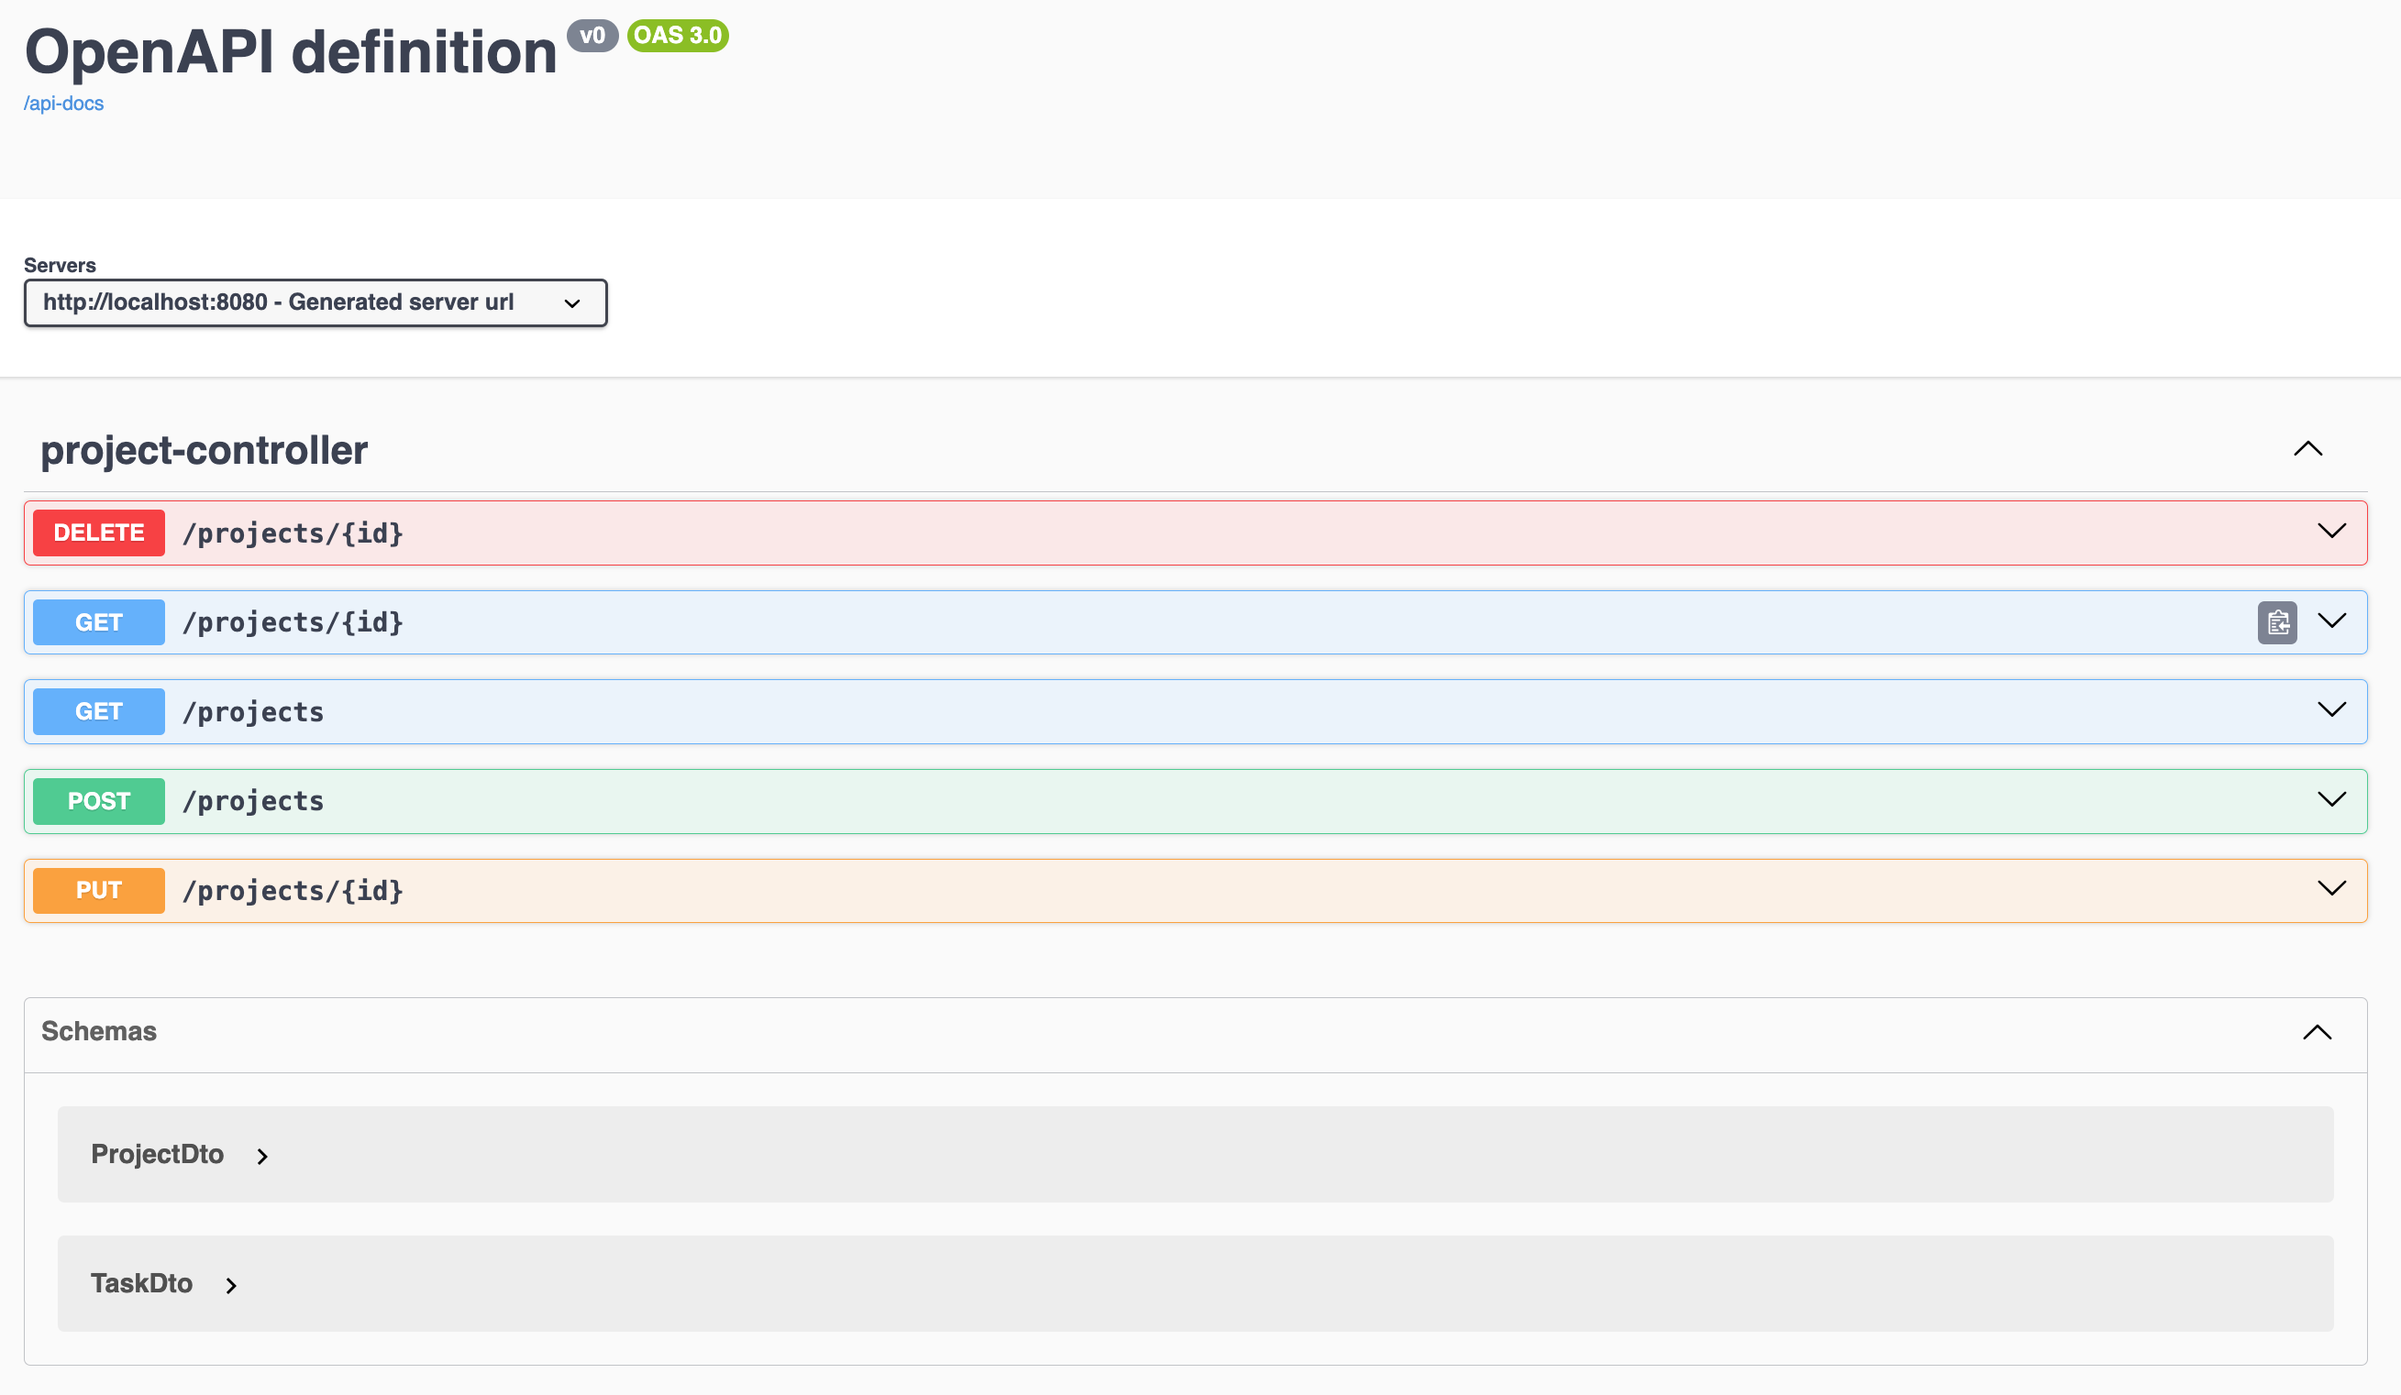
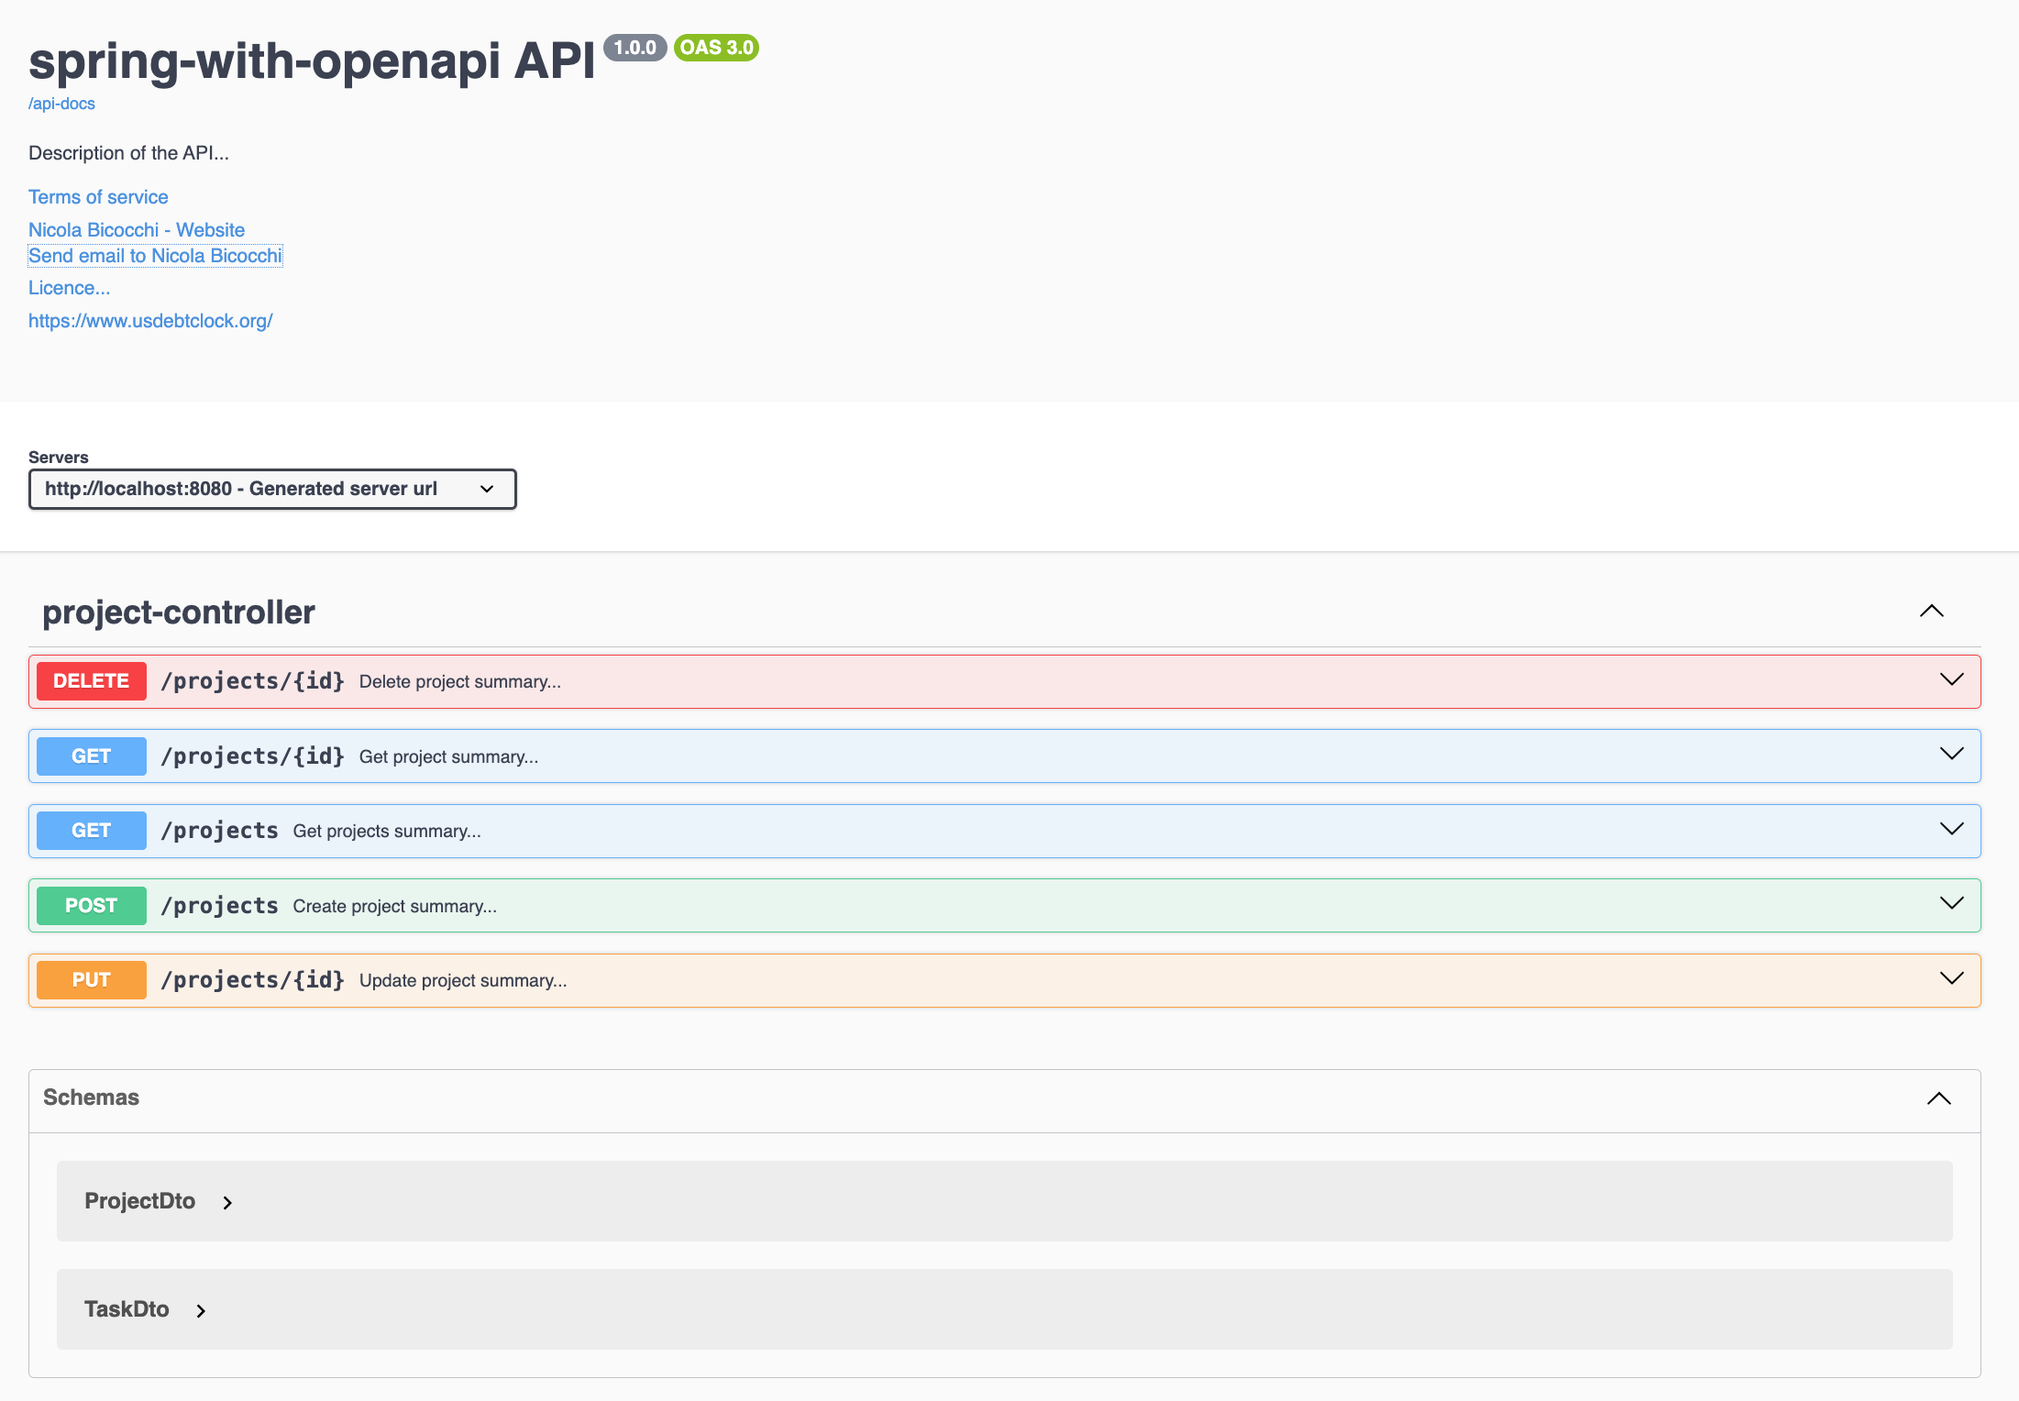
Update

diff --git a/code/learn-spring-m6/spring-with-openapi-end/src/main/java/com/baeldung/ls/web/controller/ProjectController.java b/code/learn-spring-m6/spring-with-openapi-end/src/main/java/com/baeldung/ls/web/controller/ProjectController.java
@@ -4,6 +4,9 @@ import com.baeldung.ls.mapper.ProjectMapper;
 import com.baeldung.ls.persistence.model.Project;
 import com.baeldung.ls.service.IProjectService;
 import com.baeldung.ls.web.dto.ProjectDto;
+import io.swagger.v3.oas.annotations.Operation;
+import io.swagger.v3.oas.annotations.responses.ApiResponse;
+import io.swagger.v3.oas.annotations.responses.ApiResponses;
 import org.springframework.http.HttpStatus;
 import org.springframework.web.bind.annotation.*;
 import org.springframework.web.server.ResponseStatusException;
@@ -24,12 +27,20 @@ public class ProjectController {
         this.mapper = mapper;
     }
 
+    @Operation(
+            summary = "${api.project.get-project.summary}",
+            description = "${api.project.get-project.description}"
+    )
     @GetMapping(value = "/{id}")
     public ProjectDto findOne(@PathVariable Long id) {
         Project entity = projectService.findById(id).orElseThrow(() -> new ResponseStatusException(HttpStatus.NOT_FOUND));
         return mapper.projectToProjectDTO(entity);
     }
 
+    @Operation(
+            summary = "${api.project.create-project.summary}",
+            description = "${api.project.create-project.description}"
+    )
     @PostMapping
     @ResponseStatus(HttpStatus.CREATED)
     public ProjectDto create(@RequestBody ProjectDto newProject) {
@@ -42,6 +53,10 @@ public class ProjectController {
         return mapper.projectToProjectDTO(projectService.save(entity));
     }
 
+    @Operation(
+            summary = "${api.project.get-projects.summary}",
+            description = "${api.project.get-projects.description}"
+    )
     @GetMapping
     public Collection<ProjectDto> findAll() {
         Iterable<Project> allProjects = this.projectService.findAll();
@@ -50,12 +65,20 @@ public class ProjectController {
         return projectDtos;
     }
 
+    @Operation(
+            summary = "${api.project.update-project.summary}",
+            description = "${api.project.update-project.description}"
+    )
     @PutMapping("/{id}")
     public ProjectDto updateProject(@PathVariable("id") Long id, @RequestBody ProjectDto updatedProject) {
         Project entity = mapper.projectDTOToProject(updatedProject);
         return mapper.projectToProjectDTO(projectService.save(entity));
     }
 
+    @Operation(
+            summary = "${api.project.delete-project.summary}",
+            description = "${api.project.delete-project.description}"
+    )
     @DeleteMapping("/{id}")
     @ResponseStatus(HttpStatus.NO_CONTENT)
     public void deleteProject(@PathVariable("id") Long id) {

diff --git a/code/learn-spring-m6/spring-with-openapi-end/src/main/java/com/baeldung/ls/config/OpenAPIConfig.java b/code/learn-spring-m6/spring-with-openapi-end/src/main/java/com/baeldung/ls/config/OpenAPIConfig.java
@@ -1,0 +1,45 @@
+package com.baeldung.ls.config;
+
+import io.swagger.v3.oas.models.ExternalDocumentation;
+import io.swagger.v3.oas.models.OpenAPI;
+import io.swagger.v3.oas.models.info.Contact;
+import io.swagger.v3.oas.models.info.Info;
+import io.swagger.v3.oas.models.info.License;
+import org.springframework.beans.factory.annotation.Value;
+import org.springframework.context.annotation.Bean;
+import org.springframework.context.annotation.Configuration;
+
+@Configuration
+public class OpenAPIConfig {
+    @Value("${api.common.version}")         String apiVersion;
+    @Value("${api.common.title}")           String apiTitle;
+    @Value("${api.common.description}")     String apiDescription;
+    @Value("${api.common.termsOfService}")  String apiTermsOfService;
+    @Value("${api.common.license}")         String apiLicense;
+    @Value("${api.common.licenseUrl}")      String apiLicenseUrl;
+    @Value("${api.common.externalDocDesc}") String apiExternalDocDesc;
+    @Value("${api.common.externalDocUrl}")  String apiExternalDocUrl;
+    @Value("${api.common.contact.name}")    String apiContactName;
+    @Value("${api.common.contact.url}")     String apiContactUrl;
+    @Value("${api.common.contact.email}")   String apiContactEmail;
+
+    @Bean
+    public OpenAPI getOpenApiDocumentation() {
+        return new OpenAPI()
+                .info(new Info().title(apiTitle)
+                        .description(apiDescription)
+                        .version(apiVersion)
+                        .contact(new Contact()
+                                .name(apiContactName)
+                                .url(apiContactUrl)
+                                .email(apiContactEmail))
+                        .termsOfService(apiTermsOfService)
+                        .license(new License()
+                                .name(apiLicense)
+                                .url(apiLicenseUrl)))
+                .externalDocs(new ExternalDocumentation()
+                        .description(apiExternalDocDesc)
+                        .url(apiExternalDocUrl));
+    }
+
+}

diff --git a/slides/M6.4 - Spring Boot with OpenAPI.md b/slides/M6.4 - Spring Boot with OpenAPI.md
@@ -11,7 +11,7 @@ The relevant module for this lesson is: [spring-with-openapi-end](../code/learn-
 
 Spring Boot 3.x requires to use [version 2](https://github.com/springdoc/springdoc-openapi/releases/tag/v2.1.0) of [springdoc-openapi](https://central.sonatype.com/search?q=springdoc-openapi-starter-webmvc-ui):
 
-```
+```xml
 <dependency>
     <groupId>org.springdoc</groupId>
     <artifactId>springdoc-openapi-starter-webmvc-ui</artifactId>
@@ -19,13 +19,19 @@ Spring Boot 3.x requires to use [version 2](https://github.com/springdoc/springd
 </dependency>
 ```
 
+We can also enable the _springdoc-openapi_ on a Spring WebFlux application. To enable this, we add the [_springdoc-openapi-webflux-ui_](https://central.sonatype.com/search?q=springdoc-openapi-starter-webflux-ui) dependency inside our _pom.xml_ file:
+
+```xml
+<dependency>
+    <groupId>org.springdoc</groupId>
+    <artifactId>springdoc-openapi-starter-webflux-ui</artifactId>
+    <version>2.3.0</version>
+</dependency>
+```
+
 ### OpenAPI Description Path
 
-After setting up the dependency correctly, we can run our application and find the OpenAPI descriptions at _/v3/api-docs_, which is the default path:
-
-```
-http://localhost:8080/v3/api-docs
-```
+After setting up the dependency correctly, we can run our application and find the OpenAPI descriptions at _/v3/api-docs_, which is the default path: [_http://localhost:8080/v3/api-docs_](http://localhost:8080/v3/api-docs)
 
 Further, we can customize the path in _application.properties_ using the _springdoc.api-docs_ property. For example, we can set the path to _/api-docs_:
 
@@ -33,39 +39,24 @@ Further, we can customize the path in _application.properties_ using the _spring
 springdoc.api-docs.path=/api-docs
 ```
 
-Then, we’ll be able to access the docs at:
+Then, we’ll be able to access the docs at: [_http://localhost:8080/api-docs_](http://localhost:8080/api-docs)
 
-```
-http://localhost:8080/api-docs
-```
 
-The OpenAPI definitions are in JSON format by default. For _yaml_ format, we can obtain the definitions at:
-
-```
-http://localhost:8080/api-docs.yaml
-```
+The OpenAPI definitions are in JSON format by default. For _yaml_ format, we can obtain the definitions at: [http://localhost:8080/api-docs.yaml](http://localhost:8080/api-docs.yaml)
 
 ## Integration with Swagger UI
 
 Besides generating the OpenAPI 3 specification, we can integrate _springdoc-openapi_ with Swagger UI to interact with our API specification and exercise the endpoints.
 
-**The _springdoc-openapi_ dependency already includes Swagger UI**, so we’re all set to access the API documentation at:
+**The _springdoc-openapi_ dependency already includes Swagger UI**, so we’re all set to access the API documentation at [_http://localhost:8080/swagger-ui/index.html_](http://localhost:8080/swagger-ui/index.html).
+
+The springdoc-openapi library also supports [_swagger-ui_ properties](https://springdoc.org/#swagger-ui-properties). These can be used as Spring Boot properties with the prefix _springdoc.swagger-ui_. For example, we can customize the path of our API documentation by changing the _springdoc.swagger-ui.path_ property inside our _application.properties_ file:
 
 ```
-http://localhost:8080/swagger-ui/index.html
+springdoc.swagger-ui.path=/swagger-ui.html
 ```
 
-### Support for _swagger-ui_ Properties
-
-The springdoc-openapi library also supports [_swagger-ui_ properties](https://springdoc.org/#swagger-ui-properties). These can be used as Spring Boot properties with the prefix _springdoc.swagger-ui_.
-
-For example, we can customize the path of our API documentation by changing the _springdoc.swagger-ui.path_ property inside our _application.properties_ file:
-
-```
-springdoc.swagger-ui.path=/swagger-ui-custom.html
-```
-
-So now our API documentation will be available at [_http://localhost:8080/swagger-ui-custom.html_](http://localhost:8080/swagger-ui-custom.html).
+So now our API documentation will be available at [_http://localhost:8080/swagger-ui.html_](http://localhost:8080/swagger-ui.html).
 
 As another example, we can sort the API paths according to their HTTP methods with the _springdoc.swagger-ui.operationsSorter_ property:
 
@@ -75,21 +66,42 @@ springdoc.swagger-ui.operationsSorter=method
 
 ### Sample API
 
-Our application has a controller for managing _Project_s:
+Our application has a controller for managing _Projects_. We can use the following notation to introduce a summary and a description for each method:
+
+```
+@Operation(
+        summary = "${variable defined in application.yml}",
+        description = "${variable defined in application.yml}"
+)
+```
 
 ```
 @RestController
 @RequestMapping(value = "/projects")
 public class ProjectController {
 
-    ...
+    private final IProjectService projectService;
+    private final ProjectMapper mapper;
 
+    public ProjectController(IProjectService projectService, ProjectMapper mapper) {
+        this.projectService = projectService;
+        this.mapper = mapper;
+    }
+
+    @Operation(
+            summary = "${api.project.get-project.summary}",
+            description = "${api.project.get-project.description}"
+    )
     @GetMapping(value = "/{id}")
     public ProjectDto findOne(@PathVariable Long id) {
         Project entity = projectService.findById(id).orElseThrow(() -> new ResponseStatusException(HttpStatus.NOT_FOUND));
         return mapper.projectToProjectDTO(entity);
     }
 
+    @Operation(
+            summary = "${api.project.create-project.summary}",
+            description = "${api.project.create-project.description}"
+    )
     @PostMapping
     @ResponseStatus(HttpStatus.CREATED)
     public ProjectDto create(@RequestBody ProjectDto newProject) {
@@ -102,6 +114,10 @@ public class ProjectController {
         return mapper.projectToProjectDTO(projectService.save(entity));
     }
 
+    @Operation(
+            summary = "${api.project.get-projects.summary}",
+            description = "${api.project.get-projects.description}"
+    )
     @GetMapping
     public Collection<ProjectDto> findAll() {
         Iterable<Project> allProjects = this.projectService.findAll();
@@ -110,12 +126,20 @@ public class ProjectController {
         return projectDtos;
     }
 
+    @Operation(
+            summary = "${api.project.update-project.summary}",
+            description = "${api.project.update-project.description}"
+    )
     @PutMapping("/{id}")
     public ProjectDto updateProject(@PathVariable("id") Long id, @RequestBody ProjectDto updatedProject) {
         Project entity = mapper.projectDTOToProject(updatedProject);
         return mapper.projectToProjectDTO(projectService.save(entity));
     }
 
+    @Operation(
+            summary = "${api.project.delete-project.summary}",
+            description = "${api.project.delete-project.description}"
+    )
     @DeleteMapping("/{id}")
     @ResponseStatus(HttpStatus.NO_CONTENT)
     public void deleteProject(@PathVariable("id") Long id) {
@@ -124,28 +148,93 @@ public class ProjectController {
 }
 ```
 
-Then, when we run our application, we can view the documentation at:
+To avoid introducing summaries and descriptions directly into the source code we can make use of variables defined within _application.yml_ as reported below:
 
 ```
-http://localhost:8080/swagger-ui-custom.html
+api:
+  common:
+    version: 1.0.0
+    title: Sample API
+    description: Description of the API...
+    termsOfService: MY TERMS OF SERVICE
+    license: MY LICENSE
+    licenseUrl: MY LICENSE URL
+    externalDocDesc: MY WIKI PAGE
+    externalDocUrl: MY WIKI URL
+    contact:
+      name: NAME OF CONTACT
+      url: URL TO CONTACT
+      email: contact@mail.com
+  project:
+    get-project:
+      summary: "Get project summary..."
+      description: "Get project..."
+    get-projects:
+      summary: "Get projects summary..."
+      description: "Get projects..."
+    create-project:
+      summary: "Create project summary..."
+      description: "Create project..."
+    update-project:
+      summary: "Update project summary..."
+      description: "Update project..."
+    delete-project:
+      summary: "Delete project summary..."
+      description: "Delete project..."
 ```
+
+We can also use a _@Configuration_ class for enabling further details within the API page.
+
+```
+spring:
+  jpa:
+    defer-datasource-initialization: true
+    open-in-view: false
+
+springdoc:
+  api-docs.path: /api-docs
+  swagger-ui:
+    path: /swagger-ui.html
+    operationsSorter: method
+
+api:
+  common:
+    version: 1.0.0
+    title: spring-with-openapi API
+    description: Description of the API...
+    termsOfService: Terms of Service...
+    license: Licence...
+    licenseUrl: https://www.usdebtclock.org/
+    externalDocDesc: https://www.usdebtclock.org/
+    externalDocUrl: https://www.usdebtclock.org/
+    contact:
+      name: Nicola Bicocchi
+      url: https://www.usdebtclock.org/
+      email: contact@mail.com
+  project:
+    get-project:
+      summary: "Get project summary..."
+      description: "Get project..."
+    get-projects:
+      summary: "Get projects summary..."
+      description: "Get projects..."
+    create-project:
+      summary: "Create project summary..."
+      description: "Create project..."
+    update-project:
+      summary: "Update project summary..."
+      description: "Update project..."
+    delete-project:
+      summary: "Delete project summary..."
+      description: "Delete project..."
+```
+
+Then, when we run our application, we can view the documentation at: [_http://localhost:8080/swagger-ui.html_](http://localhost:8080/swagger-ui.html).
 
 ![swagger-ui](images/m6-swagger-ui.png)
 
-## Integrating springdoc-openapi With Spring WebFlux
 
-We can also enable the _springdoc.swagger-ui_ properties on a Spring WebFlux application. This allows easy integration between springdoc-openapi and Swagger UI on our Spring WebFlux application. To enable this, we add the [_springdoc-openapi-webflux-ui_](https://central.sonatype.com/search?q=springdoc-openapi-starter-webflux-ui) dependency inside our _pom.xml_ file:
-
-```xml
-<dependency>
-    <groupId>org.springdoc</groupId>
-    <artifactId>springdoc-openapi-starter-webflux-ui</artifactId>
-    <version>2.3.0</version>
-</dependency>
-```
-
-
-## Using springdoc-openapi Maven Plugin
+## springdoc-openapi Maven Plugin
 
 The springdoc-openapi library provides a Maven plugin, [_springdoc-openapi-maven-plugin_](https://mvnrepository.com/artifact/org.springdoc/springdoc-openapi-maven-plugin), which generates OpenAPI descriptions in JSON and YAML formats.
 
